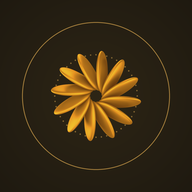
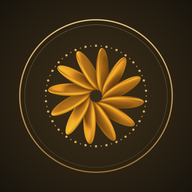
App: ícone refinado (anel duplo em degradê dourado, pontinhos alternados, flor maior)

diff --git a/scripts/icone_app.py b/scripts/icone_app.py
@@ -1,0 +1,50 @@
+# Gera o ícone do app: python3 scripts/icone_app.py assets/flower-gold.png (grava icon.png, icon-192.png, apple-touch-icon.png e previa.png na pasta atual)
+import sys, math
+from PIL import Image, ImageDraw, ImageChops
+src = Image.open(sys.argv[1]).convert('RGBA'); src = src.crop(src.getbbox())
+N = 2048; C = N/2
+# fundo: marrom café profundo, centro mais quente (degradê radial suave, sem sombra)
+def radial(c0, c1, rmax):
+    g = Image.new('L', (N, N)); px = g.load()
+    for y in range(0, N, 4):
+        for x in range(0, N, 4):
+            t = min(1, math.hypot(x-C, y-C)/rmax); v = int(255*t**1.4)
+            for dy in range(4):
+                for dx in range(4): px[x+dx, y+dy] = v
+    return Image.composite(Image.new('RGB',(N,N),c1), Image.new('RGB',(N,N),c0), g)
+bg = radial((58, 45, 24), (22, 18, 12), N*0.72).convert('RGBA')
+# anel dourado em degradê (claro em cima, mais fundo embaixo)
+def anel(R, w, a0, a1):
+    m = Image.new('L', (N, N), 0); dm = ImageDraw.Draw(m)
+    dm.ellipse((C-R, C-R, C+R, C+R), outline=255, width=w)
+    g = Image.linear_gradient('L').resize((N, N))  # 0 em cima -> 255 embaixo
+    ouro = Image.composite(Image.new('RGB',(N,N),(150,104,40)), Image.new('RGB',(N,N),(250,214,140)), g).convert('RGBA')
+    m = m.point(lambda v: v*a0//255)
+    return ouro, m
+for R, w, a in [(N*0.40, int(N*0.007), 235), (N*0.372, int(N*0.0022), 110)]:
+    ouro, m = anel(R, w, a, a); bg = Image.composite(ouro, bg, m)
+# pontinhos dourados em volta da flor, alternando tamanho
+ov = Image.new('RGBA', (N, N)); o = ImageDraw.Draw(ov)
+Rp = N*0.262; k = 60
+for i in range(k):
+    a = 2*math.pi*i/k - math.pi/2; x = C+Rp*math.cos(a); y = C+Rp*math.sin(a)
+    s = N*(0.0058 if i % 2 == 0 else 0.0034)
+    o.ellipse((x-s, y-s, x+s, y+s), fill=(240, 196, 110, 210 if i % 2 == 0 else 140))
+bg = Image.alpha_composite(bg, ov)
+F = int(N*0.50); fl = src.resize((F, F), Image.LANCZOS)
+bg.alpha_composite(fl, (int(C-F/2), int(C-F/2)))
+bg = bg.convert('RGB')
+for s, nome in [(512,'icon.png'), (192,'icon-192.png'), (180,'apple-touch-icon.png')]:
+    bg.resize((s, s), Image.LANCZOS).save(nome, optimize=True)
+# prévia: grande com corte arredondado do iPhone + tamanhos pequenos
+P = 520; big = bg.resize((P, P), Image.LANCZOS)
+mask = Image.new('L', (P, P), 0); ImageDraw.Draw(mask).rounded_rectangle((0,0,P-1,P-1), radius=int(P*0.225), fill=255)
+tela = Image.new('RGB', (P+40+240, P+40), (238, 232, 222))
+tela.paste(big, (20, 20), mask)
+y = 40
+for s in [120, 76, 60]:
+    sm = bg.resize((s, s), Image.LANCZOS); mk = mask.resize((s, s), Image.LANCZOS)
+    tela.paste(sm, (P+60+(180-s)//2, y), mk); y += s+30
+mk = Image.new('L', (120,120), 0); ImageDraw.Draw(mk).ellipse((0,0,119,119), fill=255)
+tela.paste(bg.resize((120,120), Image.LANCZOS), (P+90, y), mk)
+tela.save('previa.png')
